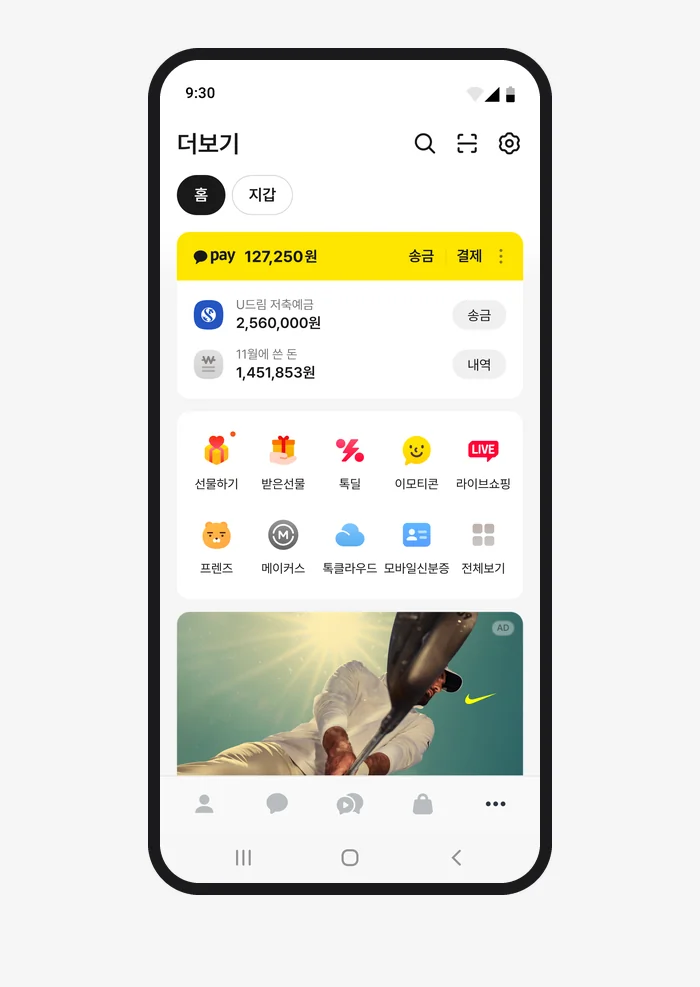
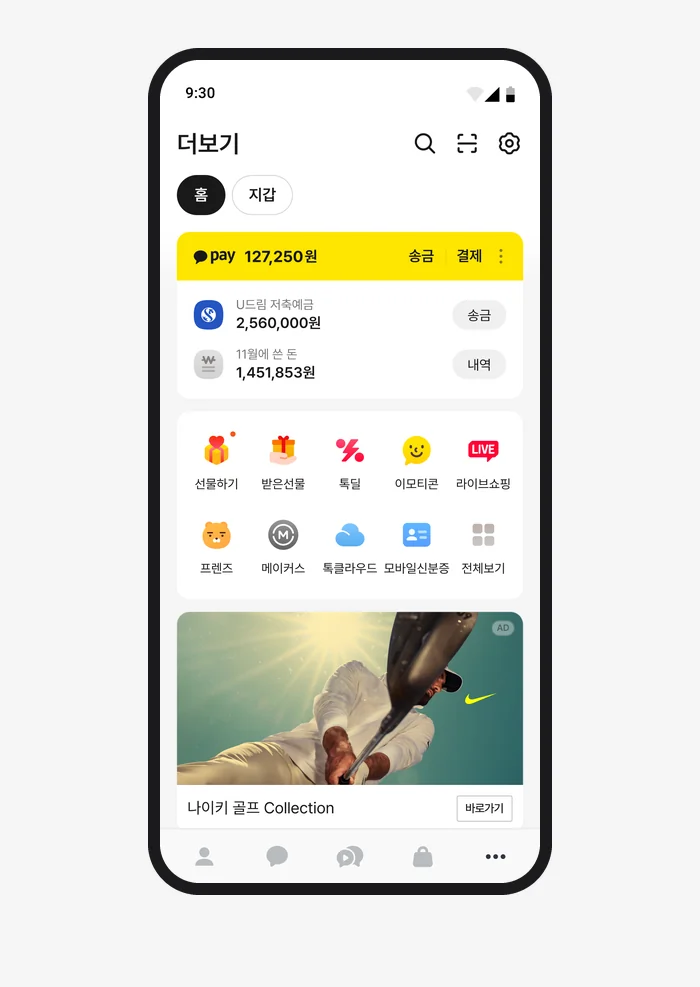
폰 시안의 OS 영역(홈 인디케이터·내비게이션 바) 제거로 통일

diff --git a/grid-list-hybrid.html b/grid-list-hybrid.html
@@ -23,8 +23,8 @@
   <article class="cs">
     <figure class="cs-hero">
       <picture>
-        <source media="(max-width:820px)" srcset="img/case03/hero-m-v5.webp?v=tb1" width="700" height="989">
-        <img src="img/case03/hero-v5.webp?v=tb1" width="2240" height="1490" alt="실험안 D 더보기탭 화면을 폰 두 대로 보여준다. 왼쪽은 첫 화면으로 상단 제목·칩·페이 영역·4열 2행 그리드·광고, 오른쪽은 아래로 스크롤한 화면으로 라이프·쇼핑 카테고리 리스트. 좁은 화면에서는 첫 화면 한 대만 보인다">
+        <source media="(max-width:820px)" srcset="img/case03/hero-m-v5.webp?v=tb2" width="700" height="989">
+        <img src="img/case03/hero-v5.webp?v=tb2" width="2240" height="1490" alt="실험안 D 더보기탭 화면을 폰 두 대로 보여준다. 왼쪽은 첫 화면으로 상단 제목·칩·페이 영역·4열 2행 그리드·광고, 오른쪽은 아래로 스크롤한 화면으로 라이프·쇼핑 카테고리 리스트. 좁은 화면에서는 첫 화면 한 대만 보인다">
       </picture>
     </figure>
 
@@ -42,10 +42,10 @@
 
     <section class="cs-block">
       <figure class="cs-fig cs-stage cs-abc-d" style="--cb:6.82%">
-        <img src="img/case03/start-pair.webp?v=tb1" width="2240" height="1407" alt="두 화면 비교. 왼쪽 대조군은 페이 영역 아래 첫 화면에 4열 3행 서비스 그리드가 있고, 오른쪽 리스트형 B안은 광고 아래로 서비스가 카테고리 리스트로 내려가 있다" loading="lazy">
+        <img src="img/case03/start-pair.webp?v=tb2" width="2240" height="1407" alt="두 화면 비교. 왼쪽 대조군은 페이 영역 아래 첫 화면에 4열 3행 서비스 그리드가 있고, 오른쪽 리스트형 B안은 광고 아래로 서비스가 카테고리 리스트로 내려가 있다" loading="lazy">
         <figcaption style="left:33.66%">대조군 · 첫 화면 그리드</figcaption><figcaption style="left:66.34%">리스트형 B안 · 광고 아래 리스트</figcaption>
       </figure>
-      <div class="cs-abc-m"><figure class="cs-stage" style="--cbm:4.05%"><img src="img/case03/start-ctrl-m.webp?v=tb1" width="700" height="987" alt="대조군 화면. 첫 화면에 4열 3행 서비스 그리드" loading="lazy"><figcaption>대조군 · 첫 화면 그리드</figcaption></figure><figure class="cs-stage" style="--cbm:4.05%"><img src="img/case03/start-list-m.webp?v=tb1" width="700" height="987" alt="리스트형 B안 화면. 광고 아래 카테고리 리스트" loading="lazy"><figcaption>리스트형 B안 · 광고 아래 리스트</figcaption></figure></div>
+      <div class="cs-abc-m"><figure class="cs-stage" style="--cbm:4.05%"><img src="img/case03/start-ctrl-m.webp?v=tb2" width="700" height="987" alt="대조군 화면. 첫 화면에 4열 3행 서비스 그리드" loading="lazy"><figcaption>대조군 · 첫 화면 그리드</figcaption></figure><figure class="cs-stage" style="--cbm:4.05%"><img src="img/case03/start-list-m.webp?v=tb1" width="700" height="987" alt="리스트형 B안 화면. 광고 아래 카테고리 리스트" loading="lazy"><figcaption>리스트형 B안 · 광고 아래 리스트</figcaption></figure></div>
       <div class="cs-sec cs-col">
         <p class="cs-label">출발점</p>
         <h2>리스트로 바꾸자 서비스가 첫 화면에서 내려갔습니다</h2>
@@ -110,10 +110,10 @@
 
     <section class="cs-block">
       <figure class="cs-fig cs-stage cs-abc-d" style="--cb:7.16%">
-        <img src="img/case03/next-trio.webp" width="2240" height="1341" alt="후속 보완안 세 화면. 그리드 아래 최근 사용 서비스, 직접 고르는 내 바로가기, 카테고리 탭으로 바로 이동하는 리스트" loading="lazy">
+        <img src="img/case03/next-trio.webp?v=tb2" width="2240" height="1341" alt="후속 보완안 세 화면. 그리드 아래 최근 사용 서비스, 직접 고르는 내 바로가기, 카테고리 탭으로 바로 이동하는 리스트" loading="lazy">
         <figcaption style="left:22.77%">최근 사용 서비스</figcaption><figcaption style="left:50.0%">내 바로가기</figcaption><figcaption style="left:77.23%">카테고리 바로 이동</figcaption>
       </figure>
-      <div class="cs-abc-m"><figure class="cs-stage" style="--cbm:4.05%"><img src="img/case03/next-recent-m.webp" width="700" height="988" alt="최근 사용 서비스 보완안" loading="lazy"><figcaption>최근 사용 서비스</figcaption></figure><figure class="cs-stage" style="--cbm:4.05%"><img src="img/case03/next-pinned-m.webp" width="700" height="988" alt="내 바로가기 보완안" loading="lazy"><figcaption>내 바로가기</figcaption></figure><figure class="cs-stage" style="--cbm:4.05%"><img src="img/case03/next-category-m.webp" width="700" height="988" alt="카테고리 바로 이동 보완안" loading="lazy"><figcaption>카테고리 바로 이동</figcaption></figure></div>
+      <div class="cs-abc-m"><figure class="cs-stage" style="--cbm:4.05%"><img src="img/case03/next-recent-m.webp?v=tb2" width="700" height="988" alt="최근 사용 서비스 보완안" loading="lazy"><figcaption>최근 사용 서비스</figcaption></figure><figure class="cs-stage" style="--cbm:4.05%"><img src="img/case03/next-pinned-m.webp?v=tb2" width="700" height="988" alt="내 바로가기 보완안" loading="lazy"><figcaption>내 바로가기</figcaption></figure><figure class="cs-stage" style="--cbm:4.05%"><img src="img/case03/next-category-m.webp?v=tb2" width="700" height="988" alt="카테고리 바로 이동 보완안" loading="lazy"><figcaption>카테고리 바로 이동</figcaption></figure></div>
       <div class="cs-sec cs-col">
         <p class="cs-label">다음 판단</p>
         <h2>자주 쓰던 서비스로 돌아가는 길을 다시 설계하고 있습니다</h2>

diff --git a/pay-boosting.html b/pay-boosting.html
@@ -23,8 +23,8 @@
   <article class="cs">
     <figure class="cs-hero">
       <picture>
-        <source media="(max-width:820px)" srcset="img/case01/hero-m.webp?v=tb1" width="700" height="1005">
-        <img src="img/case01/hero.webp?v=tb1" width="2240" height="1509" alt="3차 개선안 더보기탭 첫 화면을 폰 한 대로 보여준다. 노란 페이 영역 아래에 자산 정보 두 줄, 그 아래 서비스 바로가기와 광고">
+        <source media="(max-width:820px)" srcset="img/case01/hero-m.webp?v=tb2" width="700" height="1005">
+        <img src="img/case01/hero.webp?v=tb2" width="2240" height="1509" alt="3차 개선안 더보기탭 첫 화면을 폰 한 대로 보여준다. 노란 페이 영역 아래에 자산 정보 두 줄, 그 아래 서비스 바로가기와 광고">
       </picture>
     </figure>
 
@@ -75,13 +75,13 @@
 
     <section class="cs-block">
       <figure class="cs-fig cs-stage cs-abc-d" style="--cb:6.82%">
-        <img src="img/case01/design-trio.webp?v=tb1" width="2240" height="1407" alt="대조군, 2차 실험안, 3차 개선안의 첫 화면을 폰 세 대로 나란히 보여준다" loading="lazy">
+        <img src="img/case01/design-trio.webp?v=tb2" width="2240" height="1407" alt="대조군, 2차 실험안, 3차 개선안의 첫 화면을 폰 세 대로 나란히 보여준다" loading="lazy">
         <figcaption style="left:21.34%">대조군</figcaption><figcaption style="left:50%">2차 실험안</figcaption><figcaption style="left:78.66%">3차 개선안</figcaption>
       </figure>
       <div class="cs-abc-m">
-        <figure class="cs-stage" style="--cbm:4.05%"><img src="img/case01/design-ctrl-m.webp?v=tb1" width="700" height="987" alt="대조군 첫 화면. 한 줄 페이 영역 아래 4열 3행 서비스 그리드" loading="lazy"><figcaption>대조군</figcaption></figure>
-        <figure class="cs-stage" style="--cbm:4.05%"><img src="img/case01/design-2nd-m.webp?v=tb1" width="700" height="987" alt="2차 실험안 첫 화면. 노란 테두리 안에 자산 정보 세 줄을 펼친 페이 영역" loading="lazy"><figcaption>2차 실험안</figcaption></figure>
-        <figure class="cs-stage" style="--cbm:4.05%"><img src="img/case01/design-3rd-m.webp?v=tb1" width="700" height="987" alt="3차 개선안 첫 화면. 잔액이 머리에 들어간 페이 영역과 자산 정보 두 줄" loading="lazy"><figcaption>3차 개선안</figcaption></figure>
+        <figure class="cs-stage" style="--cbm:4.05%"><img src="img/case01/design-ctrl-m.webp?v=tb2" width="700" height="987" alt="대조군 첫 화면. 한 줄 페이 영역 아래 4열 3행 서비스 그리드" loading="lazy"><figcaption>대조군</figcaption></figure>
+        <figure class="cs-stage" style="--cbm:4.05%"><img src="img/case01/design-2nd-m.webp?v=tb2" width="700" height="987" alt="2차 실험안 첫 화면. 노란 테두리 안에 자산 정보 세 줄을 펼친 페이 영역" loading="lazy"><figcaption>2차 실험안</figcaption></figure>
+        <figure class="cs-stage" style="--cbm:4.05%"><img src="img/case01/design-3rd-m.webp?v=tb2" width="700" height="987" alt="3차 개선안 첫 화면. 잔액이 머리에 들어간 페이 영역과 자산 정보 두 줄" loading="lazy"><figcaption>3차 개선안</figcaption></figure>
       </div>
       <div class="cs-sec cs-col">
         <p class="cs-label">디자인</p>

diff --git a/list-exploration.html b/list-exploration.html
@@ -42,10 +42,10 @@
 
     <section class="cs-block">
       <figure class="cs-fig cs-stage cs-abc-d" style="--cb:6.82%">
-        <img src="img/case02/scroll-pair-v2.webp" width="2240" height="1408" alt="스크롤 유도 시안 두 장. 왼쪽은 하단에 뜨는 플로팅 버튼이 광고 위에 겹치고, 오른쪽은 칩 줄 위에 뜬 상단 안내가 페이 영역을 아래로 밀어낸다" loading="lazy">
+        <img src="img/case02/scroll-pair-v2.webp?v=tb2" width="2240" height="1408" alt="스크롤 유도 시안 두 장. 왼쪽은 하단에 뜨는 플로팅 버튼이 광고 위에 겹치고, 오른쪽은 칩 줄 위에 뜬 상단 안내가 페이 영역을 아래로 밀어낸다" loading="lazy">
         <figcaption style="left:33.66%">하단 플로팅 버튼</figcaption><figcaption style="left:66.34%">상단 스크롤 안내</figcaption>
       </figure>
-      <div class="cs-abc-m"><figure class="cs-stage" style="--cbm:4.05%"><img src="img/case02/scroll-a-m.webp" width="700" height="988" alt="하단 플로팅 버튼 시안. 버튼이 광고 위에 겹친다" loading="lazy"><figcaption>하단 플로팅 버튼</figcaption></figure><figure class="cs-stage" style="--cbm:4.05%"><img src="img/case02/scroll-d-m-v2.webp" width="700" height="988" alt="상단 스크롤 안내 시안. 안내가 페이 영역을 아래로 밀어낸다" loading="lazy"><figcaption>상단 스크롤 안내</figcaption></figure></div>
+      <div class="cs-abc-m"><figure class="cs-stage" style="--cbm:4.05%"><img src="img/case02/scroll-a-m.webp?v=tb2" width="700" height="988" alt="하단 플로팅 버튼 시안. 버튼이 광고 위에 겹친다" loading="lazy"><figcaption>하단 플로팅 버튼</figcaption></figure><figure class="cs-stage" style="--cbm:4.05%"><img src="img/case02/scroll-d-m-v2.webp?v=tb2" width="700" height="988" alt="상단 스크롤 안내 시안. 안내가 페이 영역을 아래로 밀어낸다" loading="lazy"><figcaption>상단 스크롤 안내</figcaption></figure></div>
       <div class="cs-sec cs-col">
         <p class="cs-label">출발점</p>
         <h2>스크롤을 유도하는 장치는 다른 영역을 가렸습니다</h2>
@@ -137,7 +137,7 @@
 
     <section class="cs-block">
       <figure class="cs-fig cs-stage" style="--cb:6.82%;--cbm:4.05%">
-        <picture><source media="(max-width:820px)" srcset="img/case02/next-mixed-m.webp?v=tb1" width="700" height="988"><img src="img/case02/next-mixed.webp?v=tb1" width="2240" height="1408" alt="다음 실험의 혼합 UI 첫 화면. 4열 2행 그리드와 광고 아래로 카테고리 리스트가 이어진다" loading="lazy"></picture>
+        <picture><source media="(max-width:820px)" srcset="img/case02/next-mixed-m.webp?v=tb2" width="700" height="988"><img src="img/case02/next-mixed.webp?v=tb2" width="2240" height="1408" alt="다음 실험의 혼합 UI 첫 화면. 4열 2행 그리드와 광고 아래로 카테고리 리스트가 이어진다" loading="lazy"></picture>
         <figcaption style="left:50%">다음 실험 · 그리드와 리스트를 함께</figcaption>
       </figure>
       <div class="cs-sec cs-col">
